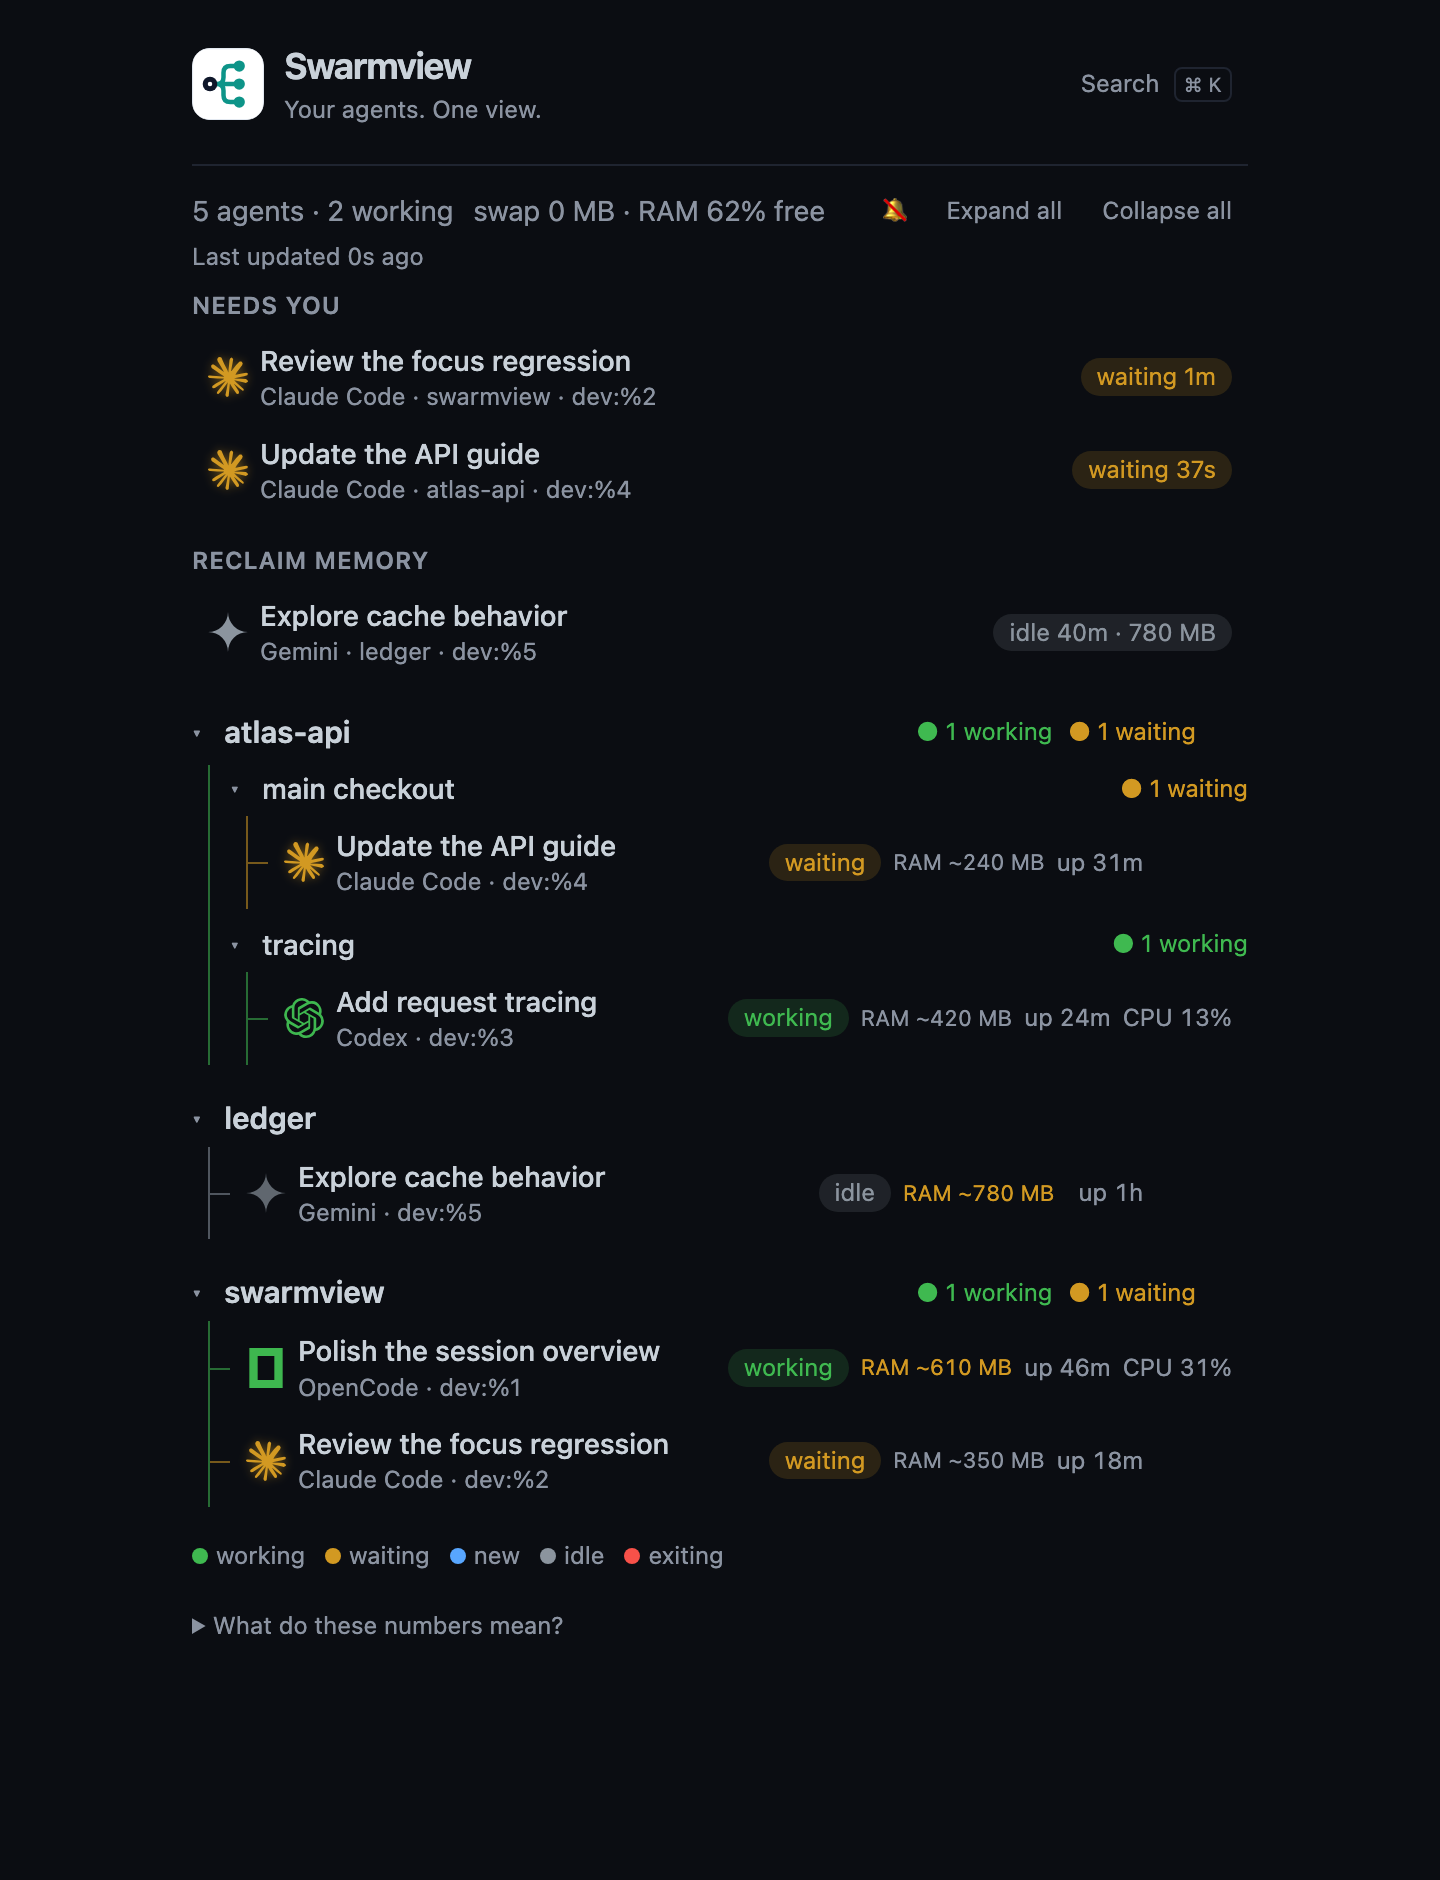
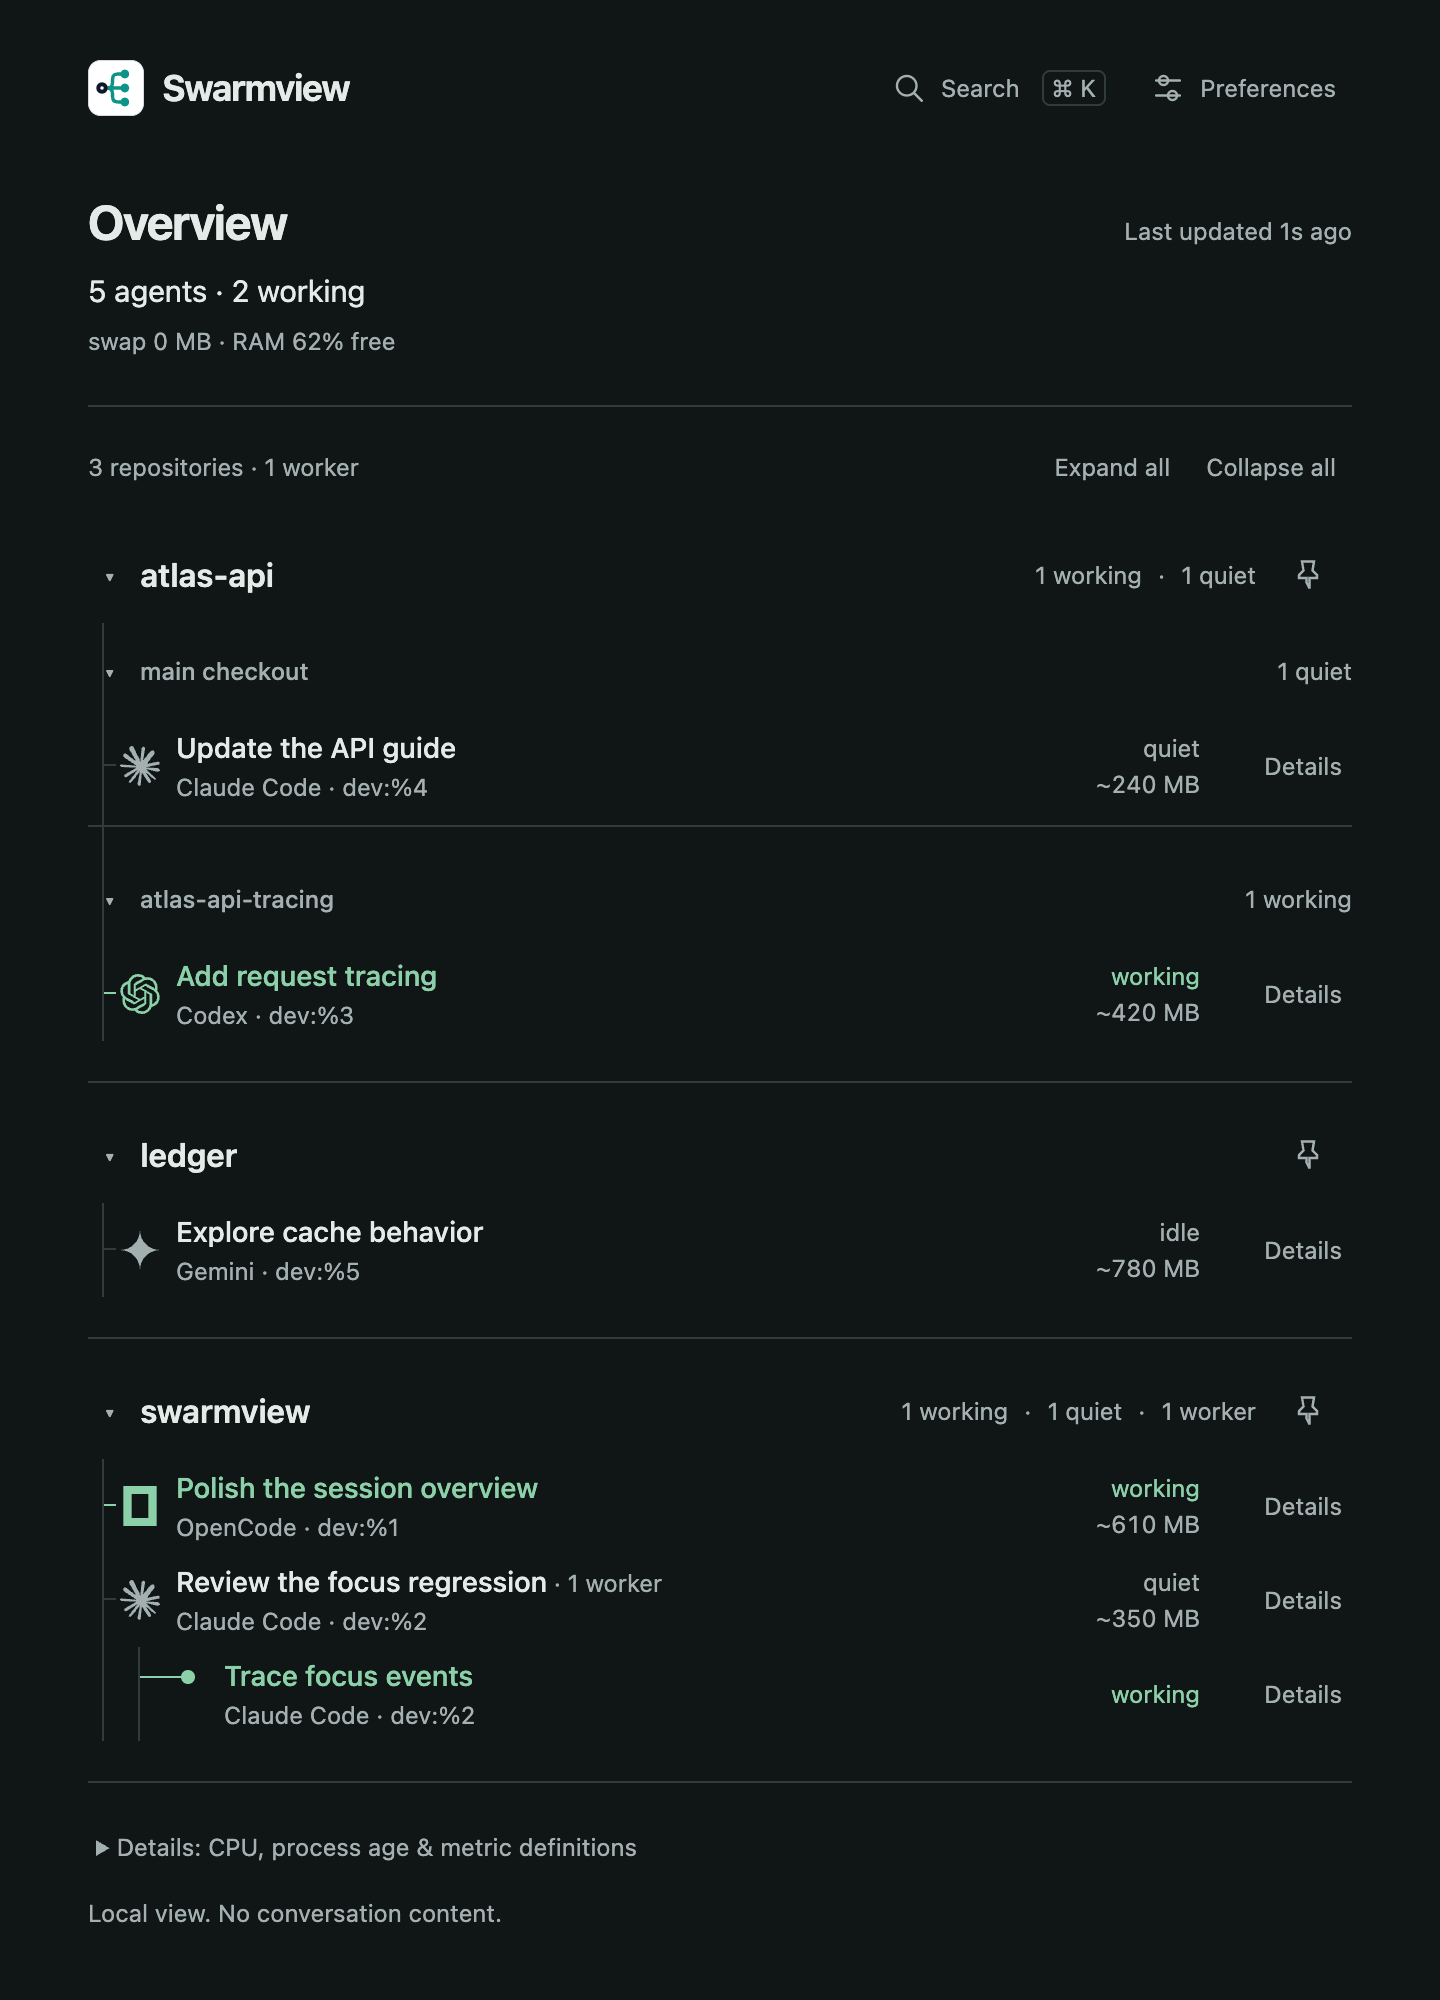
docs: refresh the README dashboard screenshot (#42)
* docs: refresh the README dashboard screenshot

Replace the October screenshot, which showed the removed Needs you and
Reclaim memory sections, with the current layout rendered from demo data:
Overview header, Preferences, per-row Details, pins, and a Claude worker
nested under its session. Update the alt text and caption to match.

* docs: say sessions, not agents, carry the RAM figure in the screenshot alt text

diff --git a/README.md b/README.md
@@ -17,8 +17,8 @@ pane instead of checking every terminal.
 Works with **Claude Code, Codex, OpenCode, Gemini, Aider, and Cursor Agent**.
 Runs locally: one Go binary, no account, no analytics, no hosted service.
 
-<p align="center"><img src="assets/screenshot.png" width="720" alt="Swarmview dashboard showing tasks that may need attention, agents grouped by repository and worktree, and per-agent status, approximate RAM, process age, and CPU usage."></p>
-<p align="center"><sub>Illustrative data in an earlier dashboard layout; CPU and process age now live in Details. Activity is inferred, not a native completion or human-request signal.</sub></p>
+<p align="center"><img src="assets/screenshot.png" width="720" alt="Swarmview dashboard showing agents grouped by repository and worktree, a Claude worker nested under its session, and each session's status and approximate RAM, with a Details control per row."></p>
+<p align="center"><sub>Illustrative data; CPU and process age live in Details. Activity is inferred, not a native completion or human-request signal.</sub></p>
 
 ### Check → choose → continue
 
